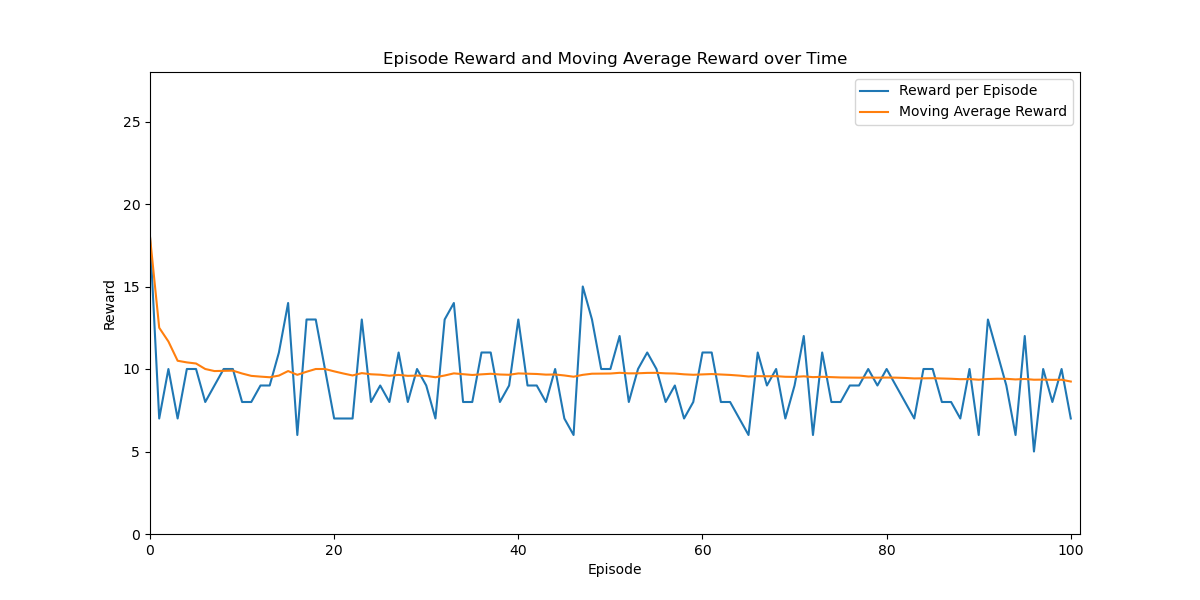
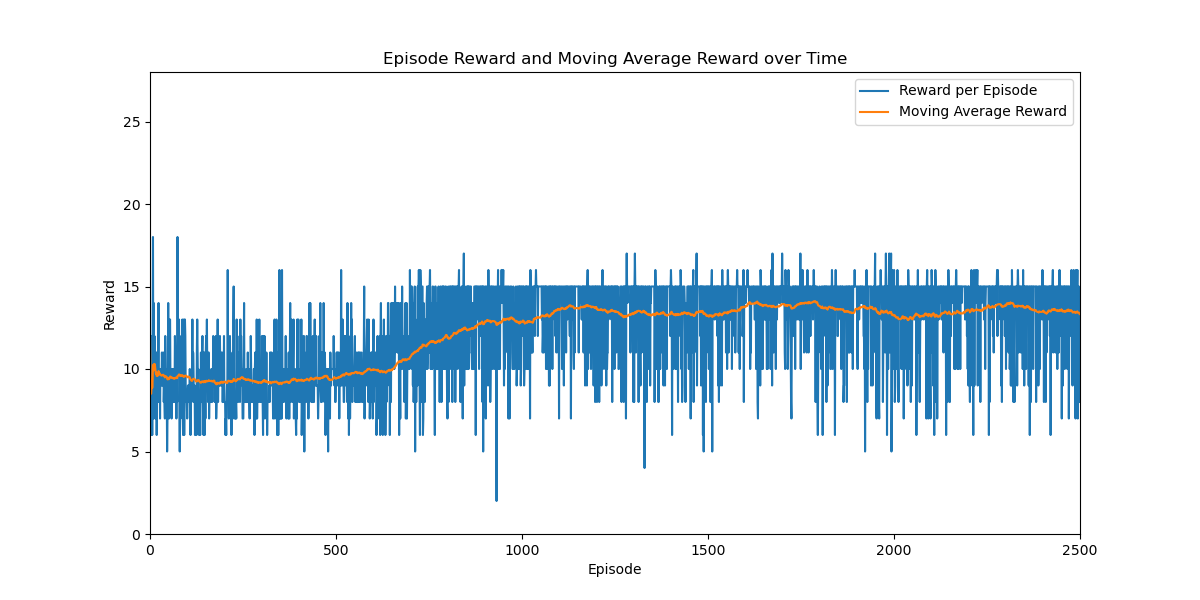
added dqn

diff --git a/models/q-learning/dqn.py b/models/q-learning/dqn.py
@@ -1,0 +1,154 @@
+import numpy as np
+import torch
+import torch.nn as nn
+import torch.optim as optim
+import torch.nn.functional as F
+from torch.autograd import Variable
+import random
+import gymnasium as gym
+from collections import namedtuple, deque, defaultdict
+import matplotlib.pyplot as plt
+import pickle
+from IPython.display import clear_output
+
+class FullyConnectedModel(nn.Module):
+    def __init__(self, input_size, output_size):
+        super(FullyConnectedModel, self).__init__()
+
+        # Define layers with ReLU activation
+        self.linear1 = nn.Linear(input_size, 16)
+        self.activation1 = nn.ReLU()
+        self.linear2 = nn.Linear(16, 16)
+        self.activation2 = nn.ReLU()
+        self.linear3 = nn.Linear(16, 16)
+        self.activation3 = nn.ReLU()
+
+        # Output layer without activation function
+        self.output_layer = nn.Linear(16, output_size)
+
+        # Initialization using Xavier uniform (a popular technique for initializing weights in NNs)
+        nn.init.xavier_uniform_(self.linear1.weight)
+        nn.init.xavier_uniform_(self.linear2.weight)
+        nn.init.xavier_uniform_(self.linear3.weight)
+        nn.init.xavier_uniform_(self.output_layer.weight)
+
+    def forward(self, inputs):
+        # Forward pass through the layers
+        x = self.activation1(self.linear1(inputs))
+        x = self.activation2(self.linear2(x))
+        x = self.activation3(self.linear3(x))
+        x = self.output_layer(x)
+        return x
+
+class QNetwork:
+    def __init__(self, input_size, output_size, lr):
+        self.model = FullyConnectedModel(input_size, output_size)
+        self.optimizer = optim.Adam(self.model.parameters(), lr=lr)
+        self.criterion = nn.MSELoss()
+
+    def predict(self, state):
+        state = torch.FloatTensor(state)
+        with torch.no_grad():
+            return self.model(state).cpu().numpy()
+
+    def update(self, state, target):
+        state = torch.FloatTensor(state)
+        target = torch.FloatTensor(target)
+
+        self.optimizer.zero_grad()
+        output = self.model(state)
+        loss = self.criterion(output, target)
+        loss.backward()
+        self.optimizer.step()
+
+def choose_action(state, q_network, epsilon, action_space):
+    if random.random() < epsilon:
+        return action_space.sample()  # Explore
+    else:
+        q_values = q_network.predict(state)
+        return np.argmax(q_values)  # Exploit
+
+def train_dqn(env, q_network, episodes, alpha, gamma, epsilon, epsilon_min, epsilon_decay, render_interval, average_window):
+    rewards_per_episode = []
+    average_rewards = []
+
+    plt.figure(figsize=(12, 6))
+    reward_line, = plt.plot([], [], label='Reward per Episode')
+    average_line, = plt.plot([], [], label='Moving Average Reward')
+    plt.xlabel('Episode')
+    plt.ylabel('Reward')
+    plt.title('Episode Reward and Moving Average Reward over Time')
+    plt.legend()
+
+    for episode in range(episodes):
+        if episode % render_interval == 0 and episode != 0:
+            env = gym.make("ALE/Frogger-ram-v5", render_mode="human")
+        else:
+            env = gym.make("ALE/Frogger-ram-v5", render_mode="rgb_array")
+
+        state, _ = env.reset()
+        done = False
+        total_reward = 0
+
+        while not done:
+            action = choose_action(state, q_network, epsilon, env.action_space)
+            next_state, reward, done, _, info = env.step(action)
+
+            next_q_values = q_network.predict(next_state)
+            max_next_q_value = np.max(next_q_values)
+            target_q_value = reward + gamma * max_next_q_value
+
+            q_values = q_network.predict(state)
+            q_values[action] = target_q_value
+            q_network.update(state, q_values)
+
+            state = next_state
+            total_reward += reward
+
+            if done:
+                break
+
+        rewards_per_episode.append(total_reward)
+
+        if len(rewards_per_episode) >= average_window:
+            moving_average = np.mean(rewards_per_episode[-average_window:])
+        else:
+            moving_average = np.mean(rewards_per_episode)
+        average_rewards.append(moving_average)
+
+        if epsilon > epsilon_min:
+            epsilon *= epsilon_decay
+
+        reward_line.set_data(range(episode + 1), rewards_per_episode)
+        average_line.set_data(range(episode + 1), average_rewards)
+        plt.xlim(0, episode + 1)
+        plt.ylim(0, max(max(rewards_per_episode), max(average_rewards)) + 10)
+        plt.pause(0.01)
+
+        print(f"Episode: {episode}, Total Reward: {total_reward}, Moving Average Reward (last {average_window} episodes): {moving_average:.2f}, Epsilon: {epsilon:.4f}")
+
+        if episode % 100 == 0:
+            plt.savefig("src/dqn_frogger_rewards.png")
+
+    env.close()
+
+# HYPERPARAMETERS
+alpha = 0.001  # Learning rate for the optimizer
+gamma = 0.99  # Discount factor
+epsilon = 1.0  # Exploration rate
+epsilon_min = 0.01  # Minimum exploration rate
+epsilon_decay = 0.995  # Decay rate for exploration
+episodes = 10000  # Number of episodes
+render_interval = 500  # Episode interval for rendering
+average_window = 100  # Moving average window size
+
+env = gym.make("ALE/Frogger-ram-v5", render_mode="rgb_array", difficulty=0)
+input_size = env.observation_space.shape[0]
+output_size = env.action_space.n
+lr = alpha
+
+q_network = QNetwork(input_size, output_size, lr)
+train_dqn(env, q_network, episodes, alpha, gamma, epsilon, epsilon_min, epsilon_decay, render_interval, average_window)
+
+# Save the trained model
+torch.save(q_network.model.state_dict(), "dqn_frogger_model.pth")

diff --git a/models/q-learning/greedy.py b/models/q-learning/greedy.py
@@ -5,23 +5,29 @@ import pickle
 from collections import defaultdict
 import matplotlib.pyplot as plt
 
-# Initialize environment
+"""
+Atari Frogger from Gymnasium Enviroment:
+https://gymnasium.farama.org/environments/atari/frogger/#observations
+"""
 env = gym.make("ALE/Frogger-ram-v5", render_mode="rgb_array", difficulty=0)
 
-# Hyperparameters
-alpha = 0.1  # Learning rate
-gamma = 0.99  # Discount factor
-epsilon = 1.0  # Exploration rate
-epsilon_min = 0.01
-epsilon_decay = 0.995
+# HYPERPARAMETERS
+alpha = 0.2  # Learning rate (high -> overshoot low -> slow down learning)
+gamma = 0.99  # Discount factor (importance of long term reward)
+epsilon = 1.0  # Exploration rate ()
+epsilon_min = 0.01 # Minimum exploration rate (increase -> more exploreation)
+epsilon_decay = 0.995 # Decay Rate (decrease -> more exploreation)
 episodes = 10000  # Number of episodes
-render_interval = 500 
+
+reward_moving_forward = 3
+
+render_interval = 500 # Episode where game is rendered
 average_window = 100  # Moving average window size
 
 rewards_per_episode = []
 average_rewards = []
 
-# Initialize the plot
+# REWARD PLOT
 plt.figure(figsize=(12, 6))
 reward_line, = plt.plot([], [], label='Reward per Episode')
 average_line, = plt.plot([], [], label='Moving Average Reward')
@@ -30,36 +36,55 @@ plt.ylabel('Reward')
 plt.title('Episode Reward and Moving Average Reward over Time')
 plt.legend()
 
-# Q-table initialization using defaultdict to handle unseen states
+# Q TABLE
 q_table = defaultdict(lambda: np.zeros(env.action_space.n))
 
-# Helper function to choose an action
+# HELPER FUNCTIONS
 def choose_action(state):
+    """
+    Function to choose the action
+    """
     if random.uniform(0, 1) < epsilon:
         return env.action_space.sample()  # Explore
     else:
         return np.argmax(q_table[state])  # Exploit
 
-# Helper function to convert state vector to a tuple (to be used as dictionary key)
 def state_to_tuple(state):
+    """
+    Function to convert state vector to a tuple
+    """
     return tuple(state)
 
-# Training loop
+# TRAINING LOOP
 for episode in range(episodes):
+    # choose between array or human render method
     if episode % render_interval == 0 and episode !=0:
         env = gym.make("ALE/Frogger-ram-v5", render_mode="human")
     else:
         env = gym.make("ALE/Frogger-ram-v5", render_mode="rgb_array")
-
+    
+    # reset env
     state, _ = env.reset()
     state = state_to_tuple(state)
     done = False
     total_reward = 0
     
+    # round / episode loop (game runs til player looses all his lives)
     while not done:
+        # store initial position of frog
+        initial_position = env.unwrapped.ale.getRAM()[57]
+
+        # run action
         action = choose_action(state)
         next_state, reward, done, _, info = env.step(action)
         next_state = state_to_tuple(next_state)
+        
+        # calculate the new position
+        new_position = env.unwrapped.ale.getRAM()[57]
+
+        # Additional reward for moving forward
+        #if new_position > initial_position:
+        #   reward += reward_moving_forward 
         
         # Update Q-value
         q_value = q_table[state][action]
@@ -72,35 +97,36 @@ for episode in range(episodes):
         if done:
             break
 
-    # Store reward
+    # store reward
     rewards_per_episode.append(total_reward)
     
-    # Calculate moving average
+    # calculate moving average
     if len(rewards_per_episode) >= average_window:
         moving_average = np.mean(rewards_per_episode[-average_window:])
     else:
         moving_average = np.mean(rewards_per_episode)
     average_rewards.append(moving_average)
 
-    # Decay epsilon
+    # decay epsilon
     if epsilon > epsilon_min:
         epsilon *= epsilon_decay
 
-    # Update plot
+    # update plot
     reward_line.set_data(range(episode + 1), rewards_per_episode)
     average_line.set_data(range(episode + 1), average_rewards)
     plt.xlim(0, episode + 1)
     plt.ylim(0, max(max(rewards_per_episode), max(average_rewards)) + 10)
     plt.pause(0.01)
 
+    # print out current state
+    print(f"Episode: {episode}, Total Reward: {total_reward}, Moving Average Reward (last {average_window} episodes): {moving_average:.2f}, Epsilon: {epsilon:.4f}")
+
     if episode % 100 == 0:
         plt.savefig("src/qlearning_greedy.png")
 
-    print(f"Episode: {episode}, Total Reward: {total_reward}, Moving Average Reward (last {average_window} episodes): {moving_average:.2f}, Epsilon: {epsilon:.4f}")
 
-# Close the environment
 env.close()
 
-# Save the Q-table
+# save q table
 with open("q_table.pkl", "wb") as f:
     pickle.dump(dict(q_table), f)
